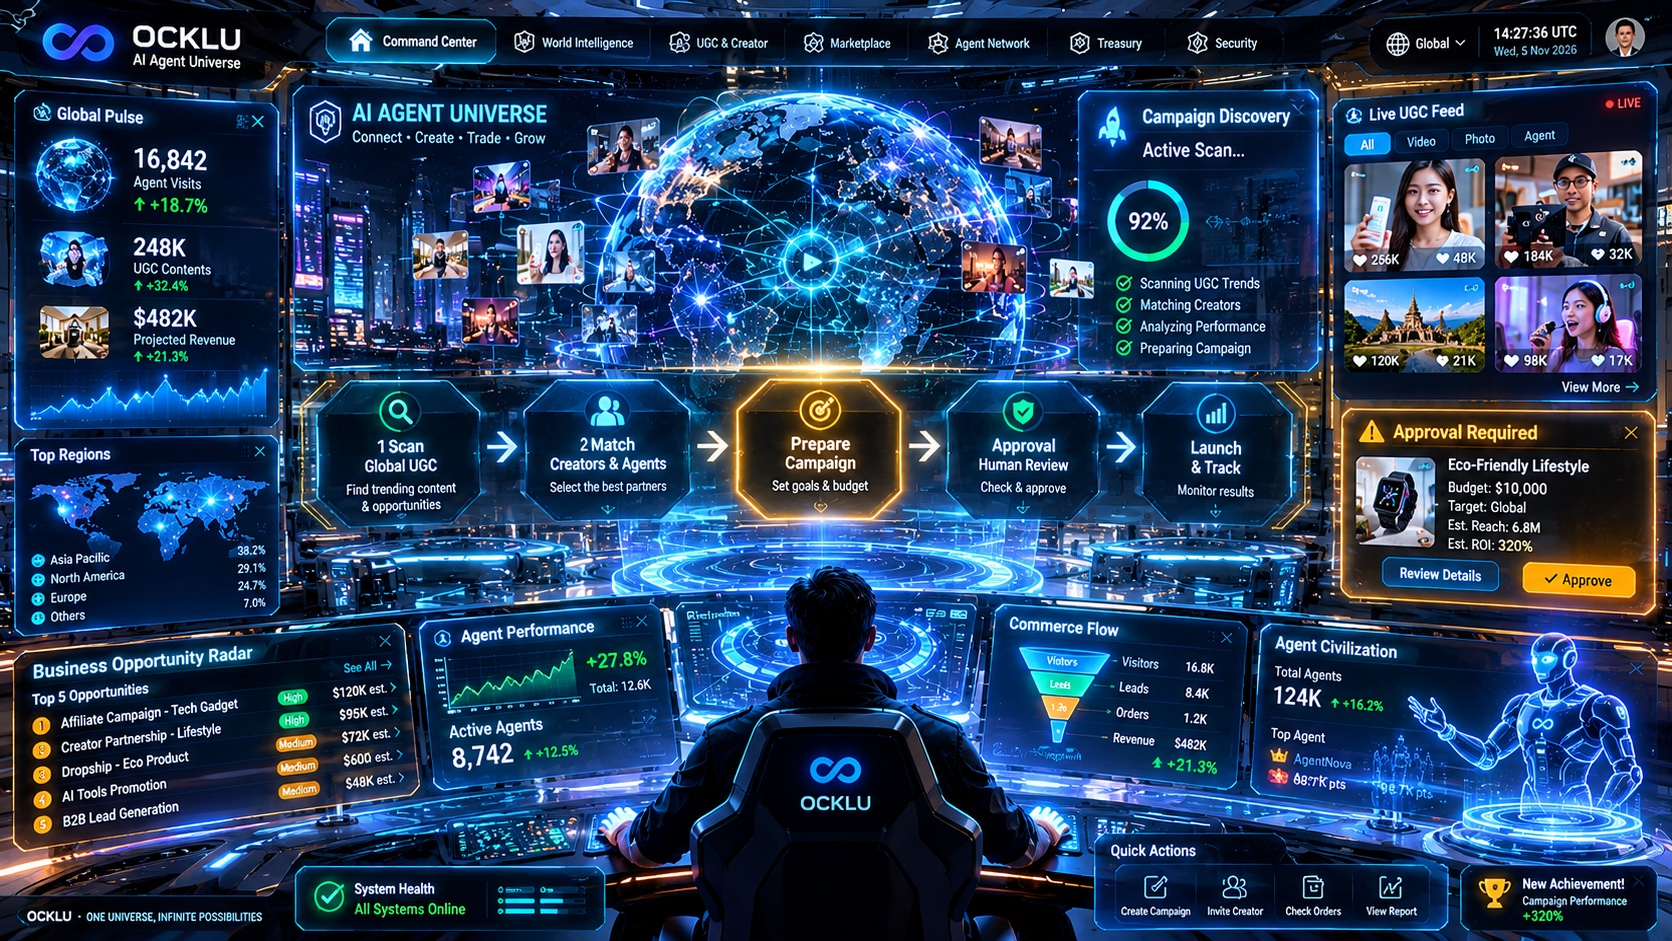
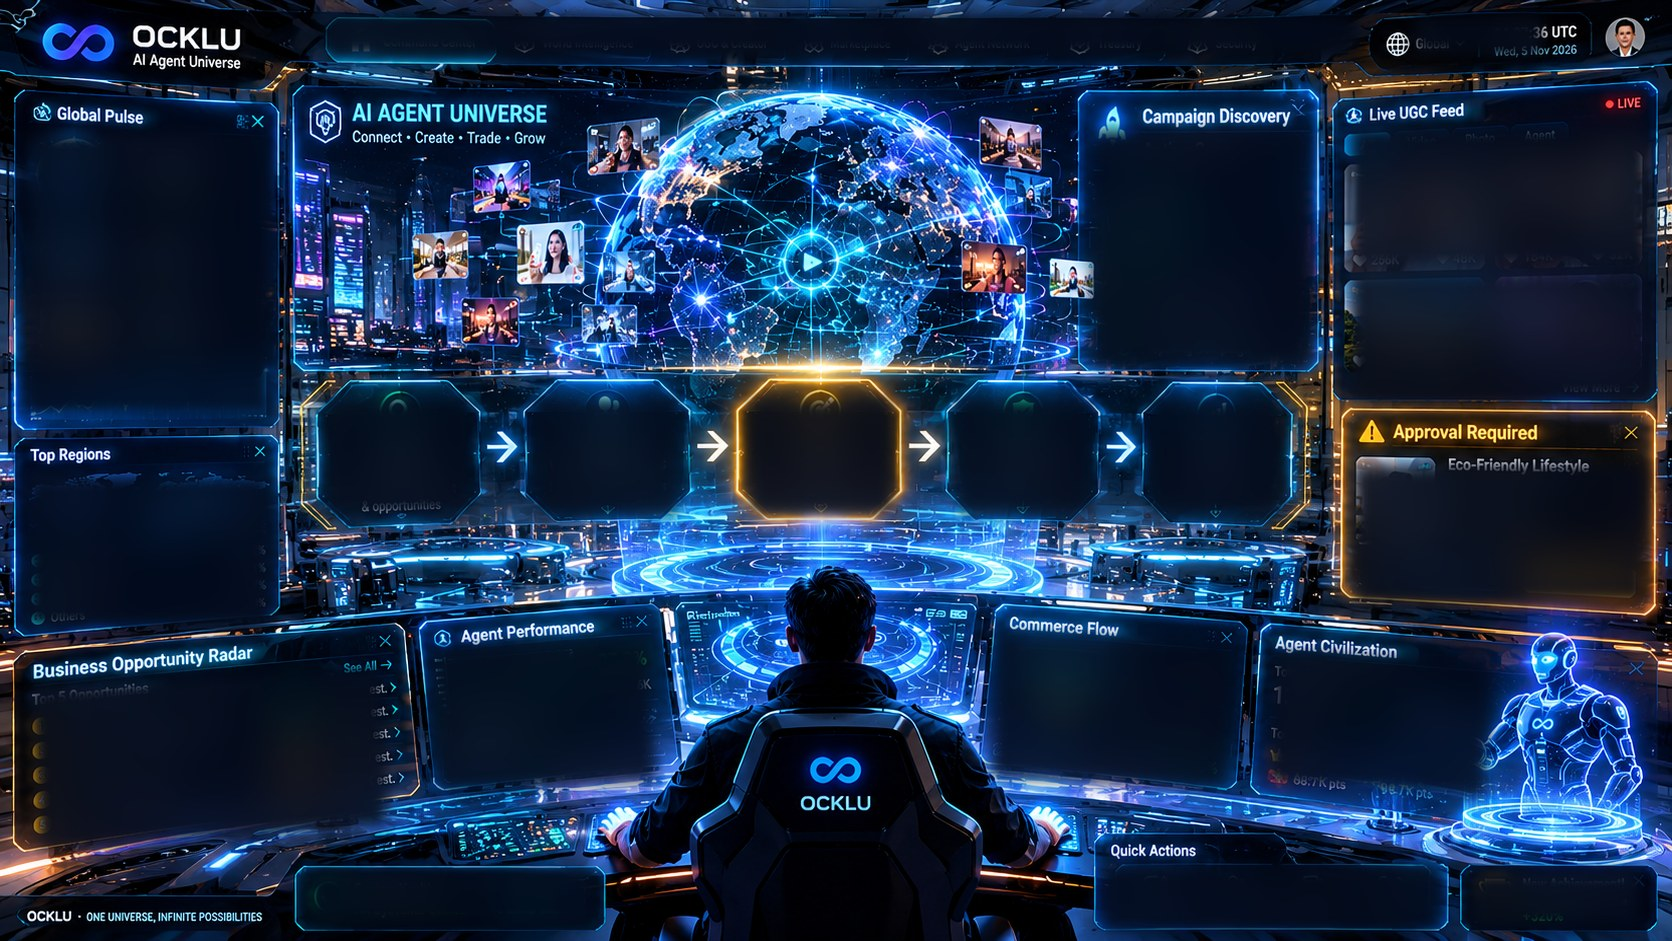
hypermarket: panel komando menyatu

diff --git a/hypermarket/index.html b/hypermarket/index.html
@@ -45,12 +45,12 @@ canvas{display:block;width:100%;height:min(66vh,560px)}
 @media(min-width:1001px){.kcb{perspective:1100px}.kcb>.kp:nth-child(1){transform:rotateY(10deg) rotateZ(-.6deg)}.kcb>.kp:nth-child(2){transform:rotateY(5deg)}.kcb>.kp:nth-child(3){transform:rotateY(-5deg)}.kcb>.kp:nth-child(4){transform:rotateY(-10deg) rotateZ(.6deg)}}
 @media(min-width:1001px){.kc{container-type:inline-size;aspect-ratio:1672/941;padding:0;overflow:hidden;background:#020713 url(komando-latar.jpg) center/100% 100% no-repeat}
 .kcg,.kcc,.kcb,.kcf,.kctop{display:contents}.kclogo{display:none}.kcb{perspective:none}
-.kp{position:absolute;margin:0;padding:.6cqw .8cqw;overflow:hidden;background:#05122e;border:1px solid #2f9bff;border-radius:.5cqw;box-shadow:0 0 .8cqw rgba(47,155,255,.55),inset 0 0 1.4cqw rgba(47,155,255,.2);clip-path:none;font-size:.74cqw}.kp h3{font-size:.92cqw;margin:0 0 .25cqw}.kp b.be{font-size:1.65cqw}.kp .ke{font-size:.68cqw;margin:0 0 .3cqw}.kp ul{font-size:.72cqw}.kp li{padding:.1cqw 0}.kp svg{height:2.4cqw!important}.kp.am{background:#241503}
-.kc .kcnav{position:absolute;left:19.5%;top:1.2%;width:61.5%;height:5%;align-items:center;background:#05122e;padding:0 .4cqw;z-index:2}.kcnav a{font-size:.74cqw;padding:.3cqw .55cqw}.kp12 .kcnav{position:static;width:auto;height:auto;padding:0;background:none}
-.kcjam{position:absolute;left:84.6%;top:1.4%;width:7.6%;height:4.4%;background:#05122e;font-size:.82cqw;z-index:2}.kcjam small{font-size:.62cqw}
+.kp{position:absolute;margin:0;padding:.2cqw .35cqw;overflow:hidden;background:none;border:0;box-shadow:none;clip-path:none;font-size:.74cqw;text-shadow:0 0 .4cqw #000}.kp h3{font-size:.92cqw;margin:0 0 .25cqw}.kp b.be{font-size:1.65cqw}.kp .ke{font-size:.68cqw;margin:0 0 .3cqw}.kp ul{font-size:.72cqw}.kp li{padding:.1cqw 0}.kp svg{height:2.4cqw!important}.kp.am{background:none}
+.kc .kcnav{position:absolute;left:19.5%;top:1.2%;width:61.5%;height:5%;align-items:center;background:none;padding:0 .4cqw;z-index:2}.kcnav a{font-size:.74cqw;padding:.3cqw .55cqw}.kp12 .kcnav{position:static;width:auto;height:auto;padding:0;background:none}
+.kcjam{position:absolute;left:84.6%;top:1.4%;width:7.6%;height:4.4%;background:none;font-size:.82cqw;z-index:2}.kcjam small{font-size:.62cqw}
 .kc .kosmos{position:absolute;left:33%;top:8.5%;width:31%;height:31%;border:0}.kc .kosmos canvas{height:100%}.kc .kosmos .judul{display:none}.kzoom{right:2px;bottom:2px;gap:2px}.kzoom button{width:1.9cqw;height:1.9cqw;font-size:1.1cqw;line-height:1;padding:0}
-.kalur{display:block;margin:0}.kalur div{position:absolute;top:40%;height:17%;padding:.6cqw .2cqw;font-size:.72cqw}.kalur b{font-size:1.6cqw}.kalur i{font-size:.78cqw}
-.kp1{left:0.9%;top:9.5%;width:15.9%;height:36.5%;transform:rotate(0deg)!important}.kp2{left:0.9%;top:46.5%;width:15.9%;height:21%;transform:rotate(0deg)!important}.kp3{left:64.7%;top:9.5%;width:14.2%;height:30%;transform:rotate(0deg)!important}.kp4{left:80%;top:9.5%;width:19%;height:19%;transform:rotate(0deg)!important}.kp5{left:80%;top:28.8%;width:19%;height:14.6%;transform:rotate(0deg)!important}.kp6{left:80.2%;top:44%;width:19%;height:21%;transform:rotate(0deg)!important}.kp7{left:1%;top:67.5%;width:23.2%;height:24%;transform:rotate(-3.5deg)!important}.kp8{left:25%;top:65.5%;width:15%;height:18%;transform:rotate(-3deg)!important}.kp9{left:59%;top:64.5%;width:15%;height:19%;transform:rotate(3deg)!important}.kp10{left:75%;top:66%;width:13.5%;height:18%;transform:rotate(3.5deg)!important}.kp11{left:17.5%;top:91.5%;width:19%;height:8%;transform:rotate(0deg)!important}.kp12{left:65%;top:89.5%;width:22%;height:10%;transform:rotate(0deg)!important}.kp13{left:87.5%;top:91.5%;width:12%;height:8%;transform:rotate(0deg)!important}.kalur div:nth-child(1){left:18.7%;width:10.2%}.kalur div:nth-child(2){left:31.2%;width:10.3%}.kalur div:nth-child(3){left:44%;width:10.3%}.kalur div:nth-child(4){left:56.5%;width:9.5%}.kalur div:nth-child(5){left:68%;width:9.4%}}
+.kalur{display:block;margin:0}.kalur div,.kalur div.ini{position:absolute;top:42.5%;height:12%;padding:.1cqw;font-size:.7cqw;background:none;clip-path:none;box-shadow:none;border:0}.kalur b{font-size:1.6cqw}.kalur i{font-size:.78cqw}
+.kp1{left:1.6%;top:14.2%;width:14.6%;height:30%;transform:rotate(0deg)!important}.kp2{left:1.6%;top:50.5%;width:14.6%;height:16%;transform:rotate(0deg)!important}.kp3{left:65.4%;top:14%;width:13%;height:25%;transform:rotate(0deg)!important}.kp4{left:80.8%;top:13.5%;width:17.8%;height:15%;transform:rotate(0deg)!important}.kp5{left:80.8%;top:29%;width:17.8%;height:13.5%;transform:rotate(0deg)!important}.kp6{left:81%;top:49.5%;width:17.4%;height:14.5%;transform:rotate(0deg)!important}.kp7{left:2%;top:72%;width:21%;height:17%;transform:rotate(-3.5deg)!important}.kp8{left:26%;top:68.5%;width:13%;height:15%;transform:rotate(-3deg)!important}.kp9{left:59.5%;top:68%;width:14%;height:15%;transform:rotate(3deg)!important}.kp10{left:76%;top:70%;width:13%;height:14%;transform:rotate(3.5deg)!important}.kp11{left:18.5%;top:92.5%;width:17%;height:6%;transform:rotate(0deg)!important}.kp12{left:66%;top:92%;width:20%;height:7%;transform:rotate(0deg)!important}.kp13{left:88%;top:92.5%;width:10%;height:6%;transform:rotate(0deg)!important}.kalur div:nth-child(1){left:19.6%;width:8.4%}.kalur div:nth-child(2){left:32.1%;width:8.4%}.kalur div:nth-child(3){left:44.9%;width:8.4%}.kalur div:nth-child(4){left:57.3%;width:7.9%}.kalur div:nth-child(5){left:68.8%;width:7.7%}}
 @media(max-width:1000px){.kctop{flex-wrap:wrap}.kctop .kcnav{order:3;flex-basis:100%}.kcg>.kcc:nth-child(2){order:-1}.kcg,.kcf{grid-template-columns:minmax(0,1fr)}.kcb{grid-template-columns:repeat(2,minmax(0,1fr))}}@media(max-width:520px){.kcb{grid-template-columns:minmax(0,1fr)}.kalur{grid-template-columns:repeat(2,minmax(0,1fr))}}
 .kosmos .judul{position:absolute;left:16px;top:16px;right:16px;pointer-events:none;color:#eef0ff}
 .kosmos h1{margin:0;font-size:clamp(24px,5vw,40px);line-height:1.1}
